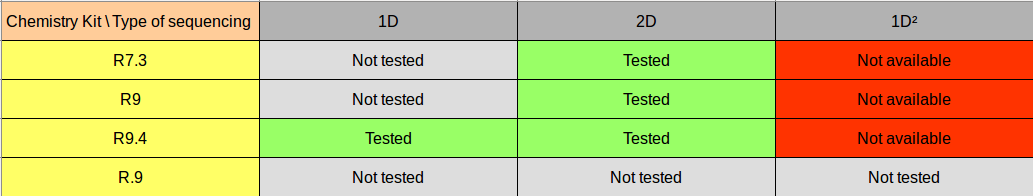
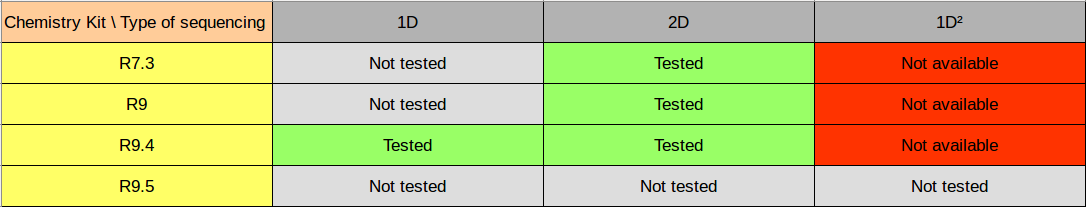
changes the chemistry tested screen and modify the folder classification of the class

diff --git a/src/test/java/fr/ens/biologie/genomique/toullig/Fast5Test.java b/src/test/java/fr/ens/biologie/genomique/toullig/Fast5Test.java
@@ -14,12 +14,13 @@ import java.net.URL;
 import java.nio.file.Paths;
 import java.util.Date;
 
+import fr.ens.biologie.genomique.toullig.fast5tofastq.Fast5;
 import org.junit.Test;
 
-import fr.ens.biologie.genomique.toullig.Fast5.ChemistryVersion;
-import fr.ens.biologie.genomique.toullig.Fast5.Status;
-import fr.ens.biologie.genomique.toullig.Fast5.Type;
-import fr.ens.biologie.genomique.toullig.Fast5.Version;
+import fr.ens.biologie.genomique.toullig.fast5tofastq.Fast5.ChemistryVersion;
+import fr.ens.biologie.genomique.toullig.fast5tofastq.Fast5.Status;
+import fr.ens.biologie.genomique.toullig.fast5tofastq.Fast5.Type;
+import fr.ens.biologie.genomique.toullig.fast5tofastq.Fast5.Version;
 
 public class Fast5Test {
   private final String file1 = "/alexander_PC_20161027_R9-4_1D.fast5";

diff --git a/src/main/java/fr/ens/biologie/genomique/toullig/actions/Fast5tofastqAction.java b/src/main/java/fr/ens/biologie/genomique/toullig/actions/Fast5tofastqAction.java
@@ -9,8 +9,8 @@ import java.util.List;
 import org.apache.commons.cli.*;
 
 import fr.ens.biologie.genomique.eoulsan.actions.AbstractAction;
-import fr.ens.biologie.genomique.toullig.Fast5ToFastq;
-import fr.ens.biologie.genomique.toullig.Fast5ToFastqLogger;
+import fr.ens.biologie.genomique.toullig.fast5tofastq.Fast5ToFastq;
+import fr.ens.biologie.genomique.toullig.fast5tofastq.Fast5ToFastqLogger;
 import fr.ens.biologie.genomique.toullig.Globals;
 
 /**

diff --git a/src/main/java/fr/ens/biologie/genomique/toullig/modules/TrimmingFastqONTModule.java b/src/main/java/fr/ens/biologie/genomique/toullig/modules/TrimmingFastqONTModule.java
@@ -8,7 +8,7 @@ import fr.ens.biologie.genomique.eoulsan.data.Data;
 import fr.ens.biologie.genomique.eoulsan.data.DataFormatRegistry;
 import fr.ens.biologie.genomique.eoulsan.data.DataFormats;
 import fr.ens.biologie.genomique.eoulsan.modules.AbstractModule;
-import fr.ens.biologie.genomique.toullig.TrimFastq;
+import fr.ens.biologie.genomique.toullig.trimming.TrimFastq;
 
 import java.io.File;
 import java.io.IOException;

diff --git a/src/main/java/fr/ens/biologie/genomique/toullig/actions/TrimAction.java b/src/main/java/fr/ens/biologie/genomique/toullig/actions/TrimAction.java
@@ -9,7 +9,7 @@ import org.apache.commons.cli.*;
 
 import fr.ens.biologie.genomique.eoulsan.actions.AbstractAction;
 import fr.ens.biologie.genomique.toullig.Globals;
-import fr.ens.biologie.genomique.toullig.TrimFastq;
+import fr.ens.biologie.genomique.toullig.trimming.TrimFastq;
 
 /**
  * This class define the Local exec Action.

diff --git a/src/main/java/fr/ens/biologie/genomique/toullig/fast5tofastq/Fast5ToFastqLogger.java b/src/main/java/fr/ens/biologie/genomique/toullig/fast5tofastq/Fast5ToFastqLogger.java
@@ -1,4 +1,4 @@
-package fr.ens.biologie.genomique.toullig;
+package fr.ens.biologie.genomique.toullig.fast5tofastq;
 
 import fr.ens.biologie.genomique.eoulsan.util.LocalReporter;
 

diff --git a/src/main/java/fr/ens/biologie/genomique/toullig/fast5tofastq/Fast5ToFastq.java b/src/main/java/fr/ens/biologie/genomique/toullig/fast5tofastq/Fast5ToFastq.java
@@ -1,4 +1,4 @@
-package fr.ens.biologie.genomique.toullig;
+package fr.ens.biologie.genomique.toullig.fast5tofastq;
 
 import java.io.File;
 import java.io.FileOutputStream;

diff --git a/src/main/java/fr/ens/biologie/genomique/toullig/fast5tofastq/Fast5.java b/src/main/java/fr/ens/biologie/genomique/toullig/fast5tofastq/Fast5.java
@@ -1,4 +1,4 @@
-package fr.ens.biologie.genomique.toullig;
+package fr.ens.biologie.genomique.toullig.fast5tofastq;
 
 import java.io.File;
 import java.util.Date;

diff --git a/src/main/java/fr/ens/biologie/genomique/toullig/trimming/TrimFastq.java b/src/main/java/fr/ens/biologie/genomique/toullig/trimming/TrimFastq.java
@@ -1,4 +1,4 @@
-package fr.ens.biologie.genomique.toullig;
+package fr.ens.biologie.genomique.toullig.trimming;
 
 import java.io.*;
 import java.util.HashMap;
